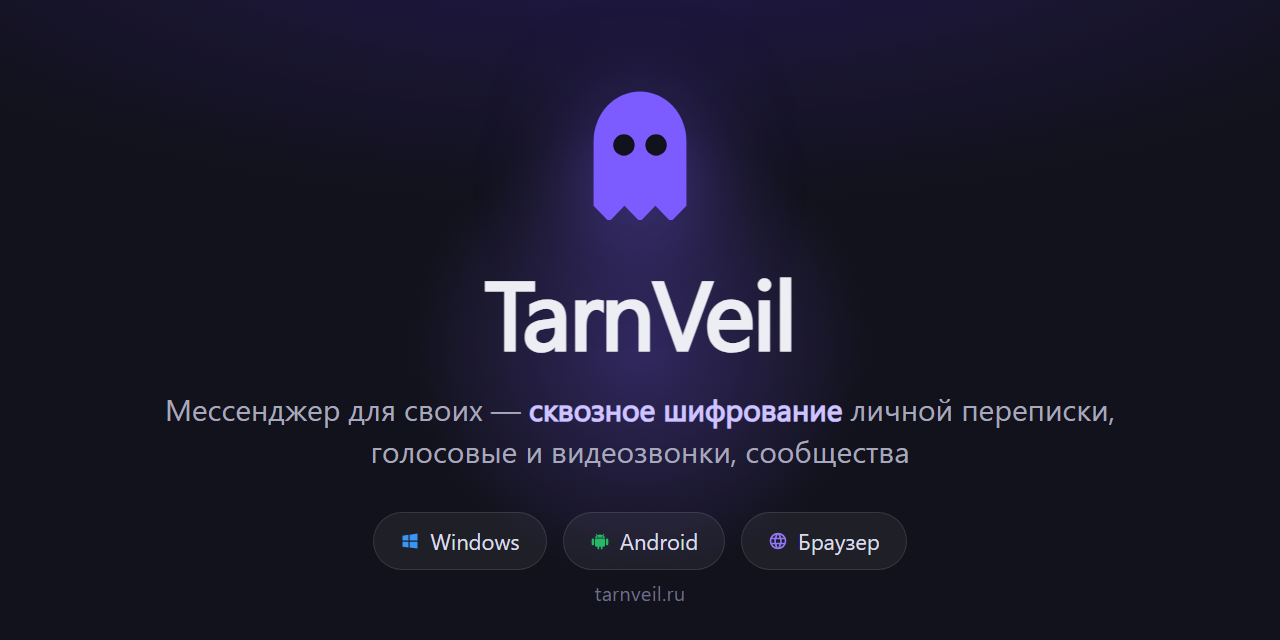
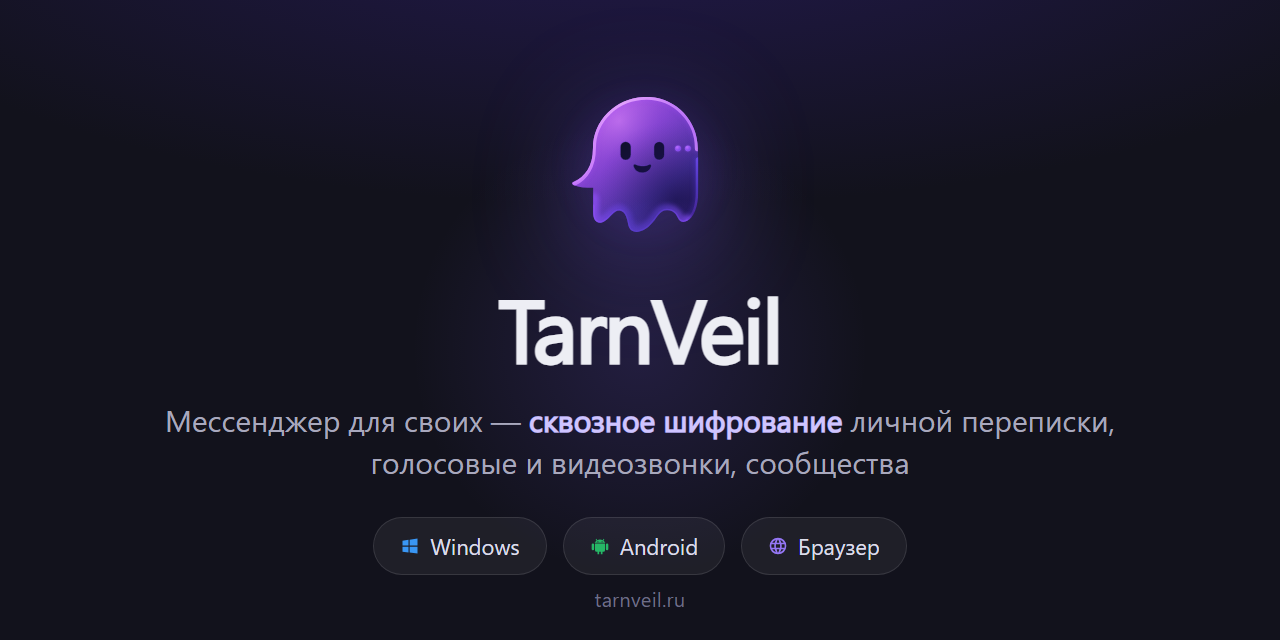
Настоящий логотип приложения на баннере и странице

diff --git a/index.html b/index.html
@@ -52,11 +52,7 @@
   </style>
 </head>
 <body>
-  <svg class="ghost" width="84" height="84" viewBox="0 0 84 84" xmlns="http://www.w3.org/2000/svg" aria-hidden="true">
-    <path d="M16 76 V40 a26 28 0 0 1 52 0 V76 l-8.7 9 -8.7 -9 -8.6 9 -8.7 -9 -8.6 9 Z" fill="#7c5cff"/>
-    <circle cx="33" cy="42" r="6" fill="#0e0e15"/>
-    <circle cx="51" cy="42" r="6" fill="#0e0e15"/>
-  </svg>
+  <img class="ghost" src="./logo-ghost.svg" width="96" height="96" alt="" />
   <h1>TarnVeil</h1>
   <p class="tag">Личные сообщения со сквозным шифрованием, голосовые и видеозвонки, сообщества.</p>
   <!-- Версия подставляется из последнего релиза; значение здесь — запасное, если GitHub недоступен. -->
